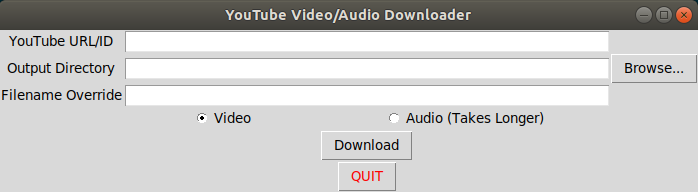
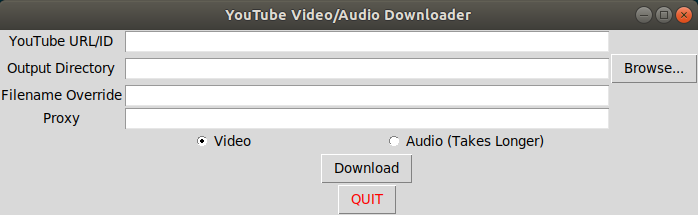
Added proxy support to script.py and proxy info added to README

Changed region(s): [[0.0, 0.0312, 1.0, 0.6875], [0.4513, 0.7188, 0.6017, 0.9688]]

diff --git a/script.py b/script.py
@@ -71,16 +71,21 @@ def parse_args():
     parser.add_argument('-o', '--output-path', help='Output Directory Path', default=None)
     parser.add_argument('-f', '--filename', help='Override the output filename. Does not override file extension',
                         default=None)
-    # parser.add_argument('-p', '--filename_prefix', help='Filename Prefix', default=None) Currently does not work
+    parser.add_argument('-p', '--proxy', help='Proxy to use. Ex http://xxx.xxx.xxx:8080', default=None)
     parser.add_argument('-a', '--audio-only', help='Download Audio Only', action='store_true', default=False)
 
-    return parser.parse_args()
+    parsed_args = parser.parse_args()
+    if parsed_args.proxy:
+        parsed_args.proxy = {parsed_args.proxy.split(':')[0]: parsed_args.proxy}
+
+    return parsed_args
 
 
 if __name__ == '__main__':
     args = parse_args()
     if args.url:
         download_youtube_video(args.url, audio_only=args.audio_only,
-                               output_path=args.output_path, filename=args.filename)
+                               output_path=args.output_path, filename=args.filename,
+                               proxies=args.proxy)
     else:
         interactive_mode()

diff --git a/download_youtube_video.py b/download_youtube_video.py
@@ -27,7 +27,6 @@ def download_youtube_video(url, audio_only=False, output_path=None,
     if 'https' not in url:
         url = 'https://www.youtube.com/watch?v=%s' % url
     if proxies:
-        print(proxies)
         video = YouTube(url, proxies=proxies)
     else:
         video = YouTube(url)

diff --git a/README.md b/README.md
@@ -1,5 +1,5 @@
 # videodownloader
-A Simple Script writtten in Python to Download YouTube Videos
+A Simple Script written in Python to Download YouTube Videos
 These videos can also be downloaded as audio
 
 ### Installation
@@ -29,6 +29,7 @@ or use the command line arguments on the script (`script.py`).
     -o --output-path    Output Directory Path
     -f --filename       Override the output filename. Does not override file extension
     -a --audio-only     Download Audio Only
+    -p --proxy          Proxy to use. Ex http://xxx.xxx.xxx:8080
     
 
 
